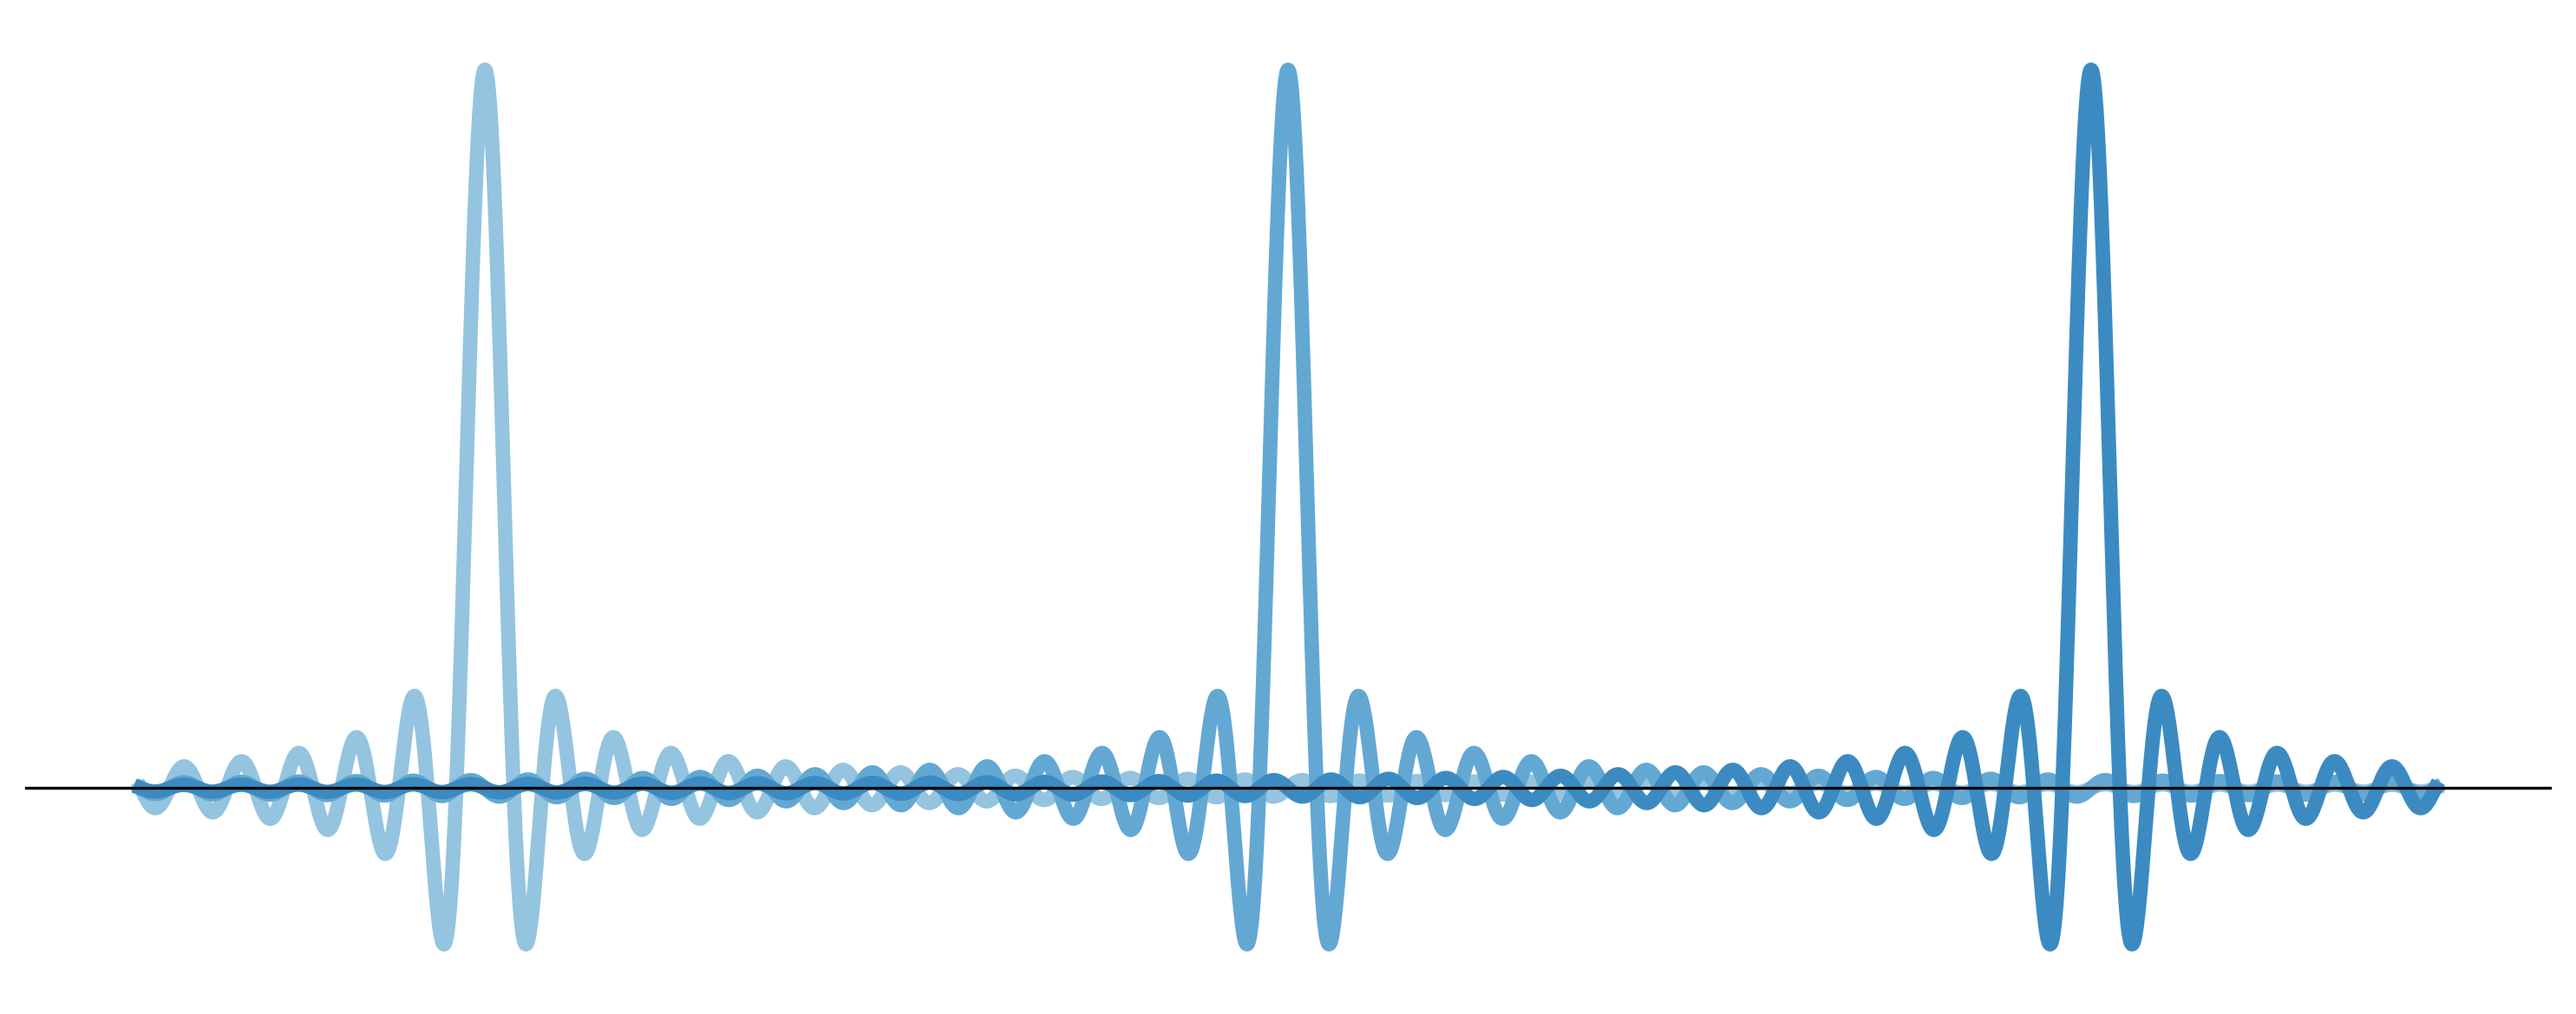
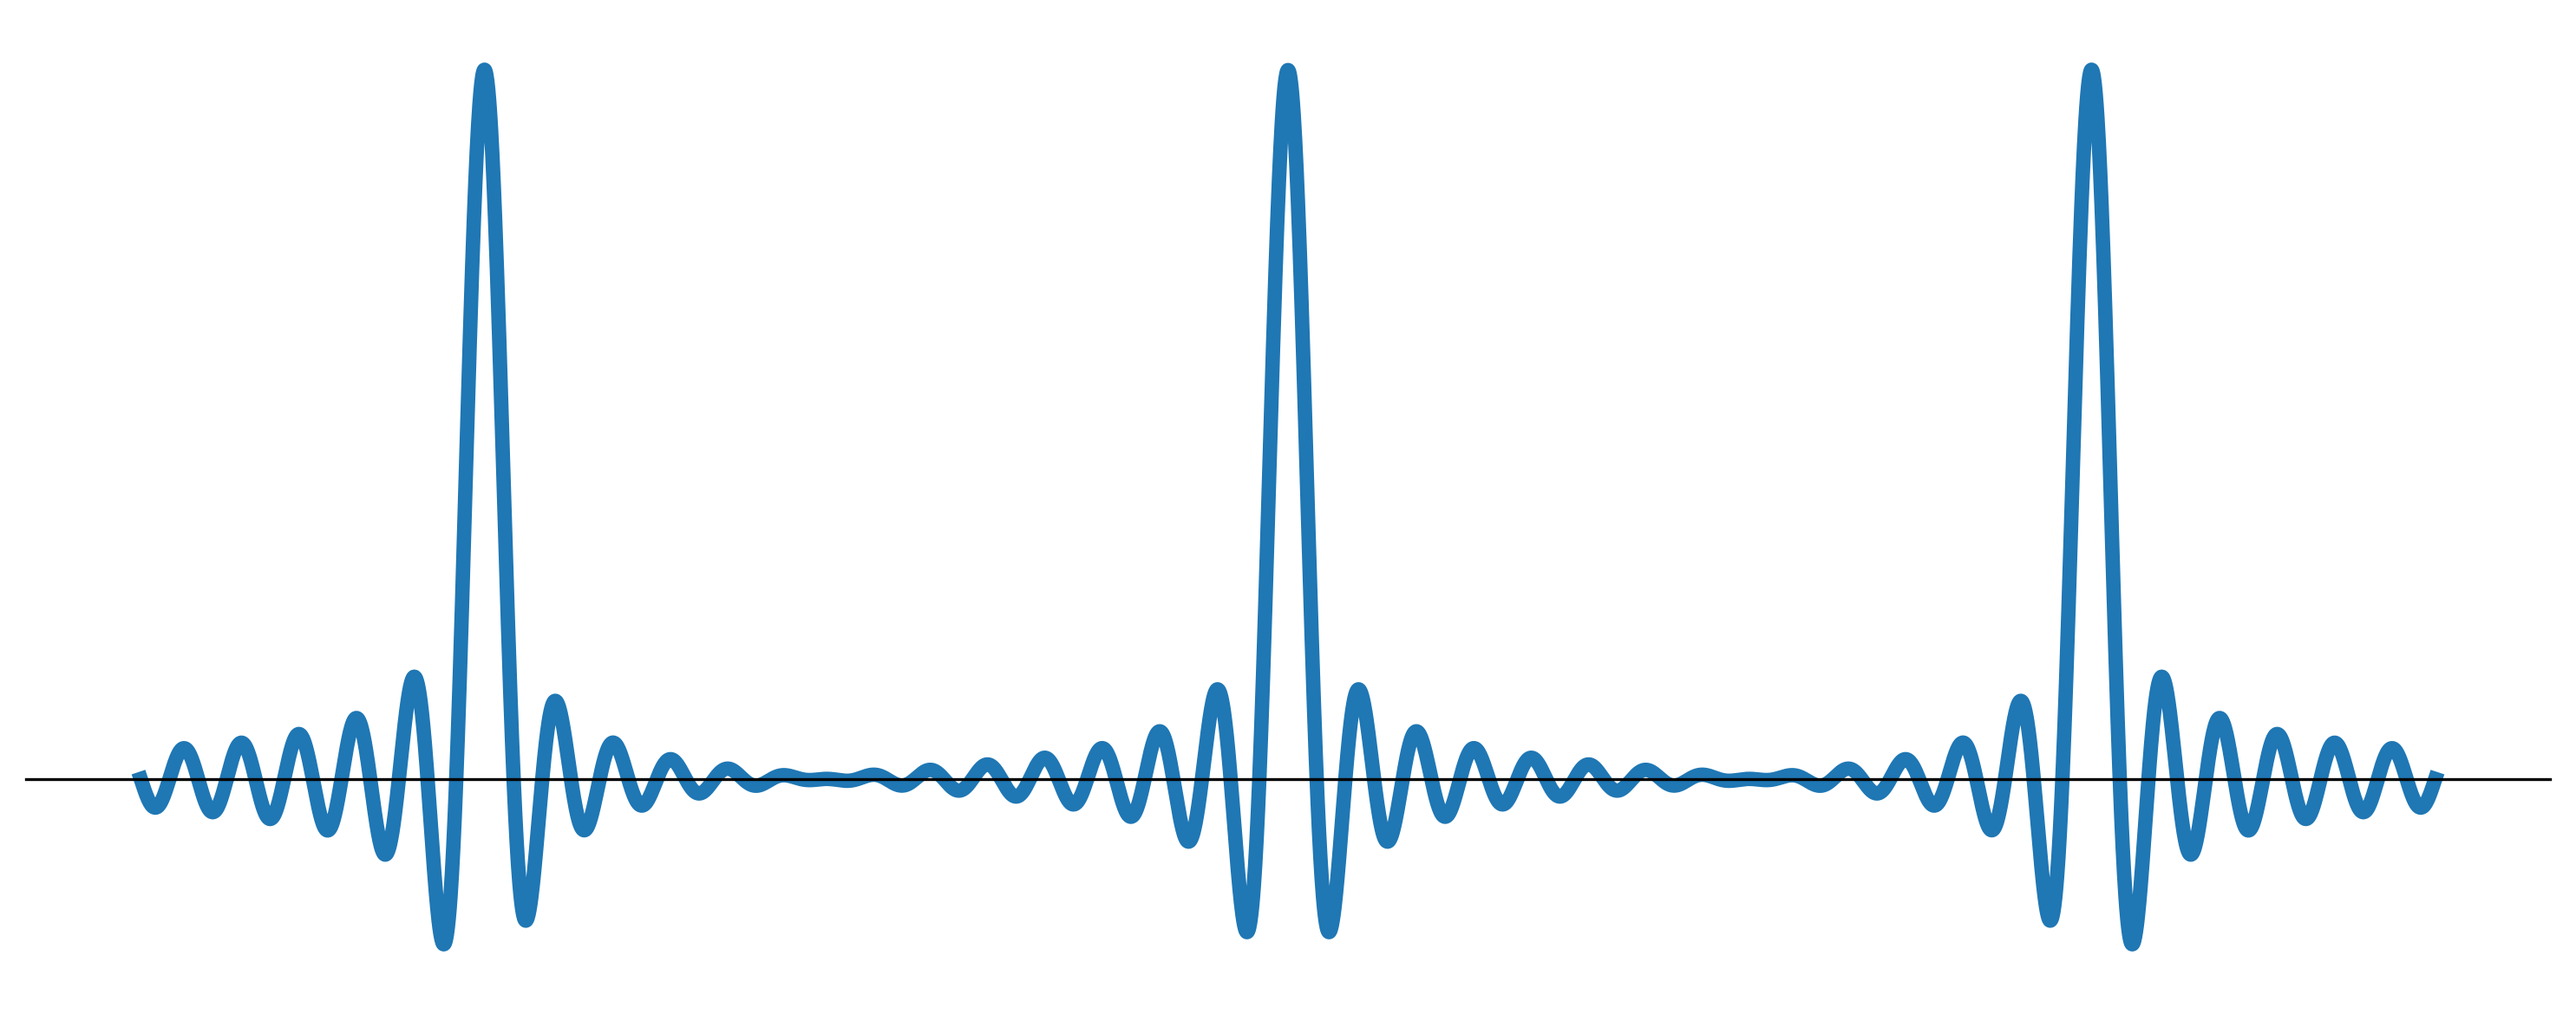
Remaining

Changed region(s): [[0.0, 0.0615, 0.9912, 0.9538]]

diff --git a/poster/sinc.py b/poster/sinc.py
@@ -1,6 +1,5 @@
 import numpy as np
 import matplotlib.pyplot as plt
-import matplotlib.cm as cm
 
 # 描画用パラメータ
 num_sincs = 5                 # 配置する sinc 関数の数
@@ -10,13 +9,12 @@ x = np.linspace(-10, 10, 5000)  # x軸の範囲と解像度
 # 複数の sinc 関数を重ねる
 y = np.zeros_like(x)
 centers = [-7,0,7]
+for c in centers:
+    y += np.sinc((x - c) * 4)
 
-# カラーマップ（青系）から色を取得
-colors = cm.Blues(np.linspace(0.4, 0.9, num_sincs))  # 明るすぎず濃すぎない範囲
 # グラフ描画
 plt.figure(figsize=(10, 4))
-for c, color in zip(centers, colors):
-    plt.plot(x, np.sinc((x - c) * 4), linewidth=4, color=color)
+plt.plot(x, y, linewidth=4)
 
 # 軸の設定：目盛りは非表示にするが枠線は表示
 plt.xticks([])
